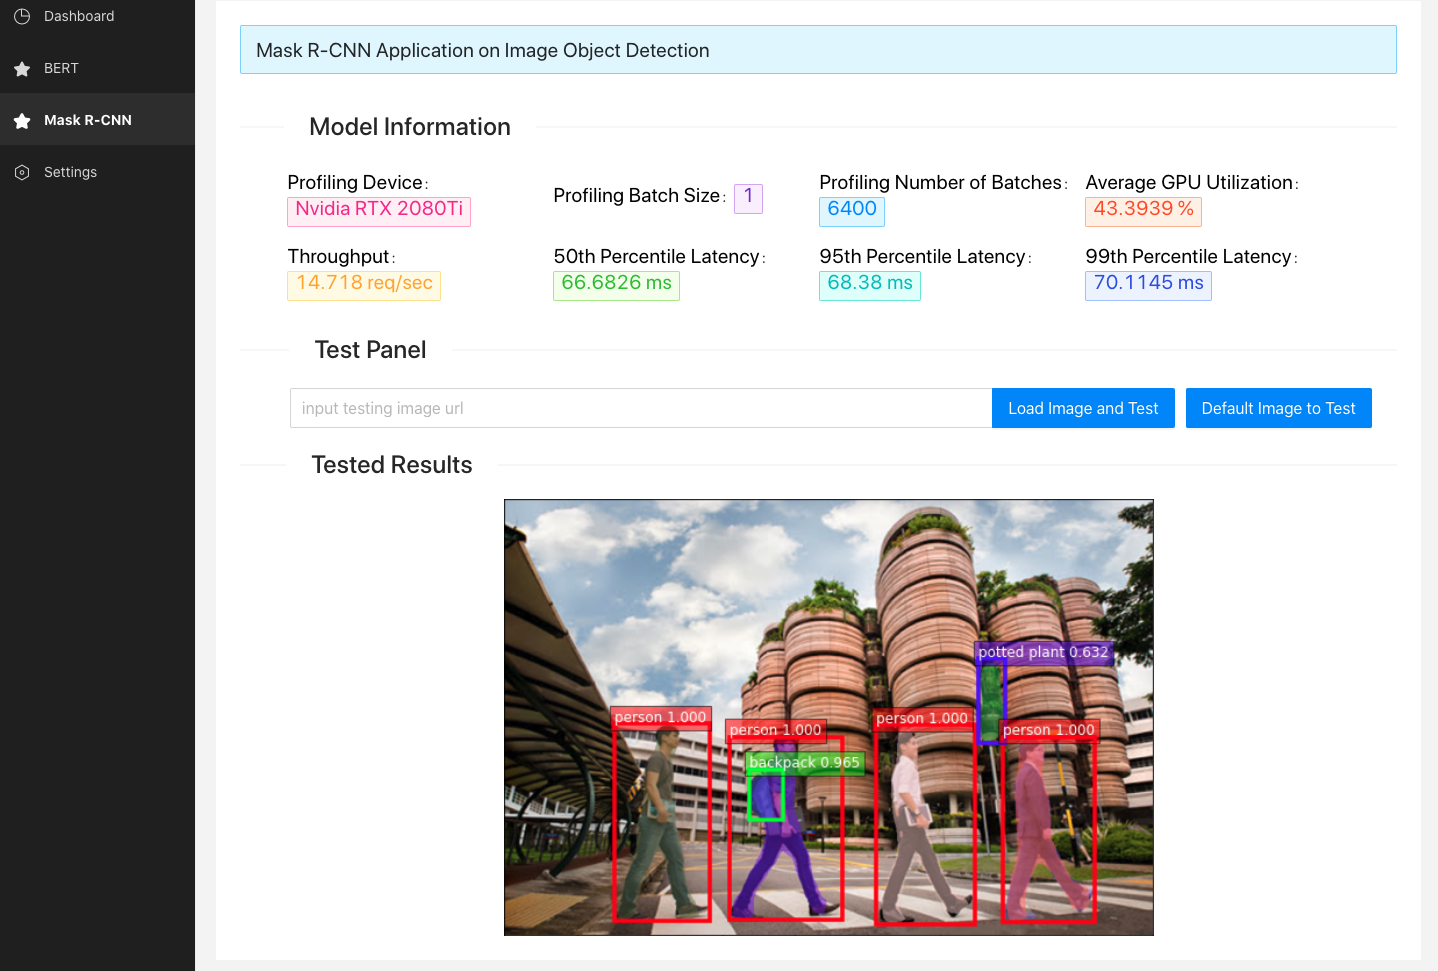
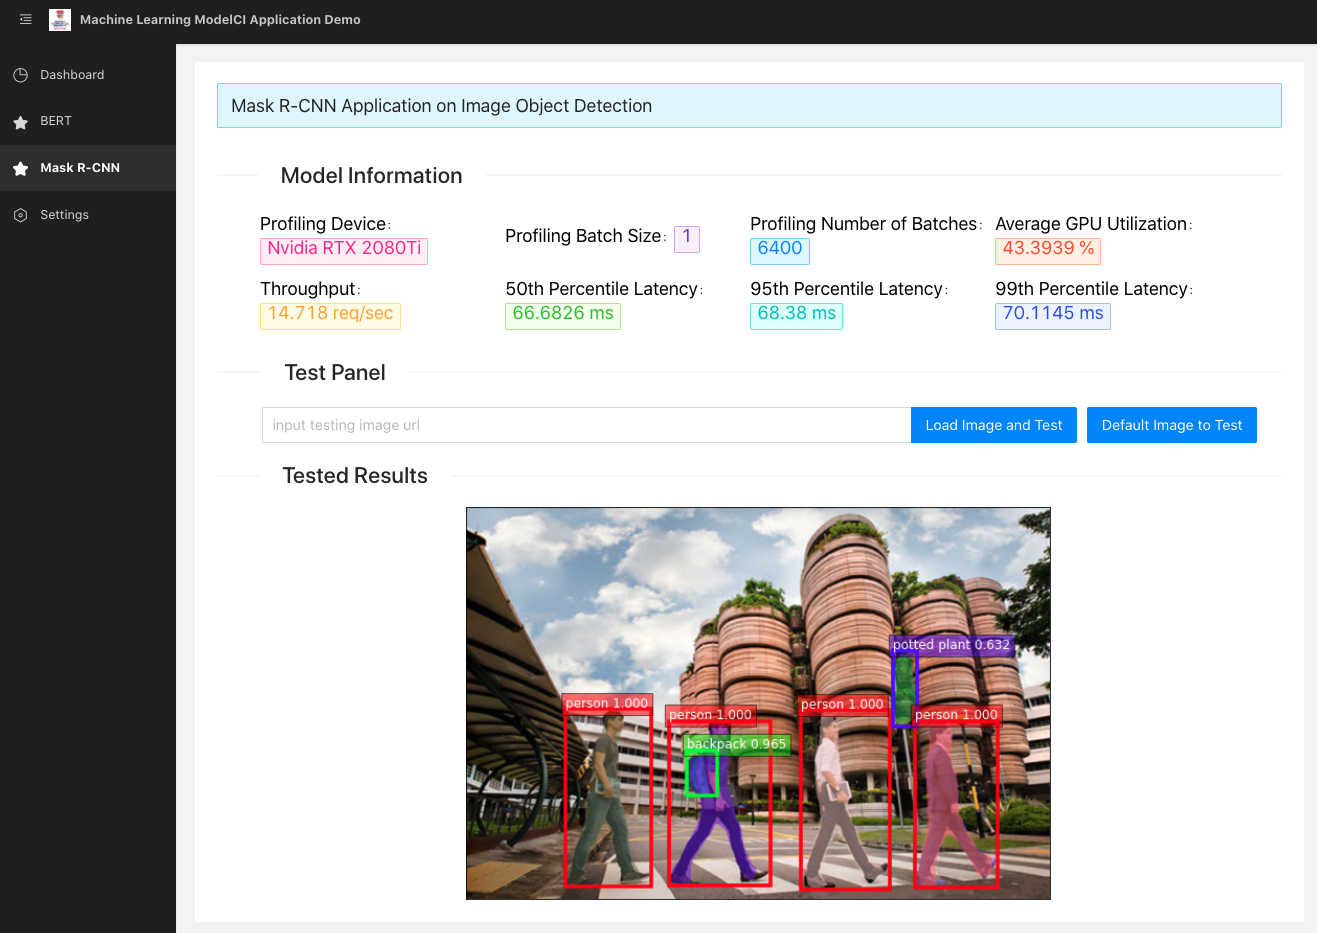
💄 ui:

diff --git a/src/pages/MRCNN/index.tsx b/src/pages/MRCNN/index.tsx
@@ -311,10 +311,44 @@ export default class MRCNN extends React.Component {
         </div>
 
         <Divider orientation="left" style={{ fontSize: 25 }}>
-          Tested Results (before and after)
+          Tested Results
         </Divider>
-        <img src="" alt="left" width="45%" />
-        <img style={{ marginLeft: '20px' }} width="45%" src="" alt="right" />
+
+        {/* <div style={{ display: 'flex', marginTop: '20px' }}>
+          <Alert
+            style={{ width: '40%', marginLeft: '90px' }}
+            message="Image Before"
+            type="info"
+          />
+
+          <Alert
+            style={{ width: '40%', marginLeft: '80px' }}
+            message="Image Processed"
+            type="success"
+          />
+        </div>
+
+        <div style={{ marginTop: '20px' }}>
+          <img
+            src="./src/pages/MRCNN/sample/testin.jpg"
+            alt="left"
+            width="35%"
+          />
+
+          <img
+            style={{ marginLeft: '180px' }}
+            width="35%"
+            src="./src/pages/MRCNN/sample/testout.png"
+            alt="right"
+          />
+        </div> */}
+        {/* <img src="./src/pages/MRCNN/sample/testin.jpg" alt="left" width="45%" /> */}
+        <img
+          style={{ marginLeft: '20px' }}
+          width="650px"
+          src="./src/pages/MRCNN/sample/testout.png"
+          alt="right"
+        />
       </div>
     );
   }
